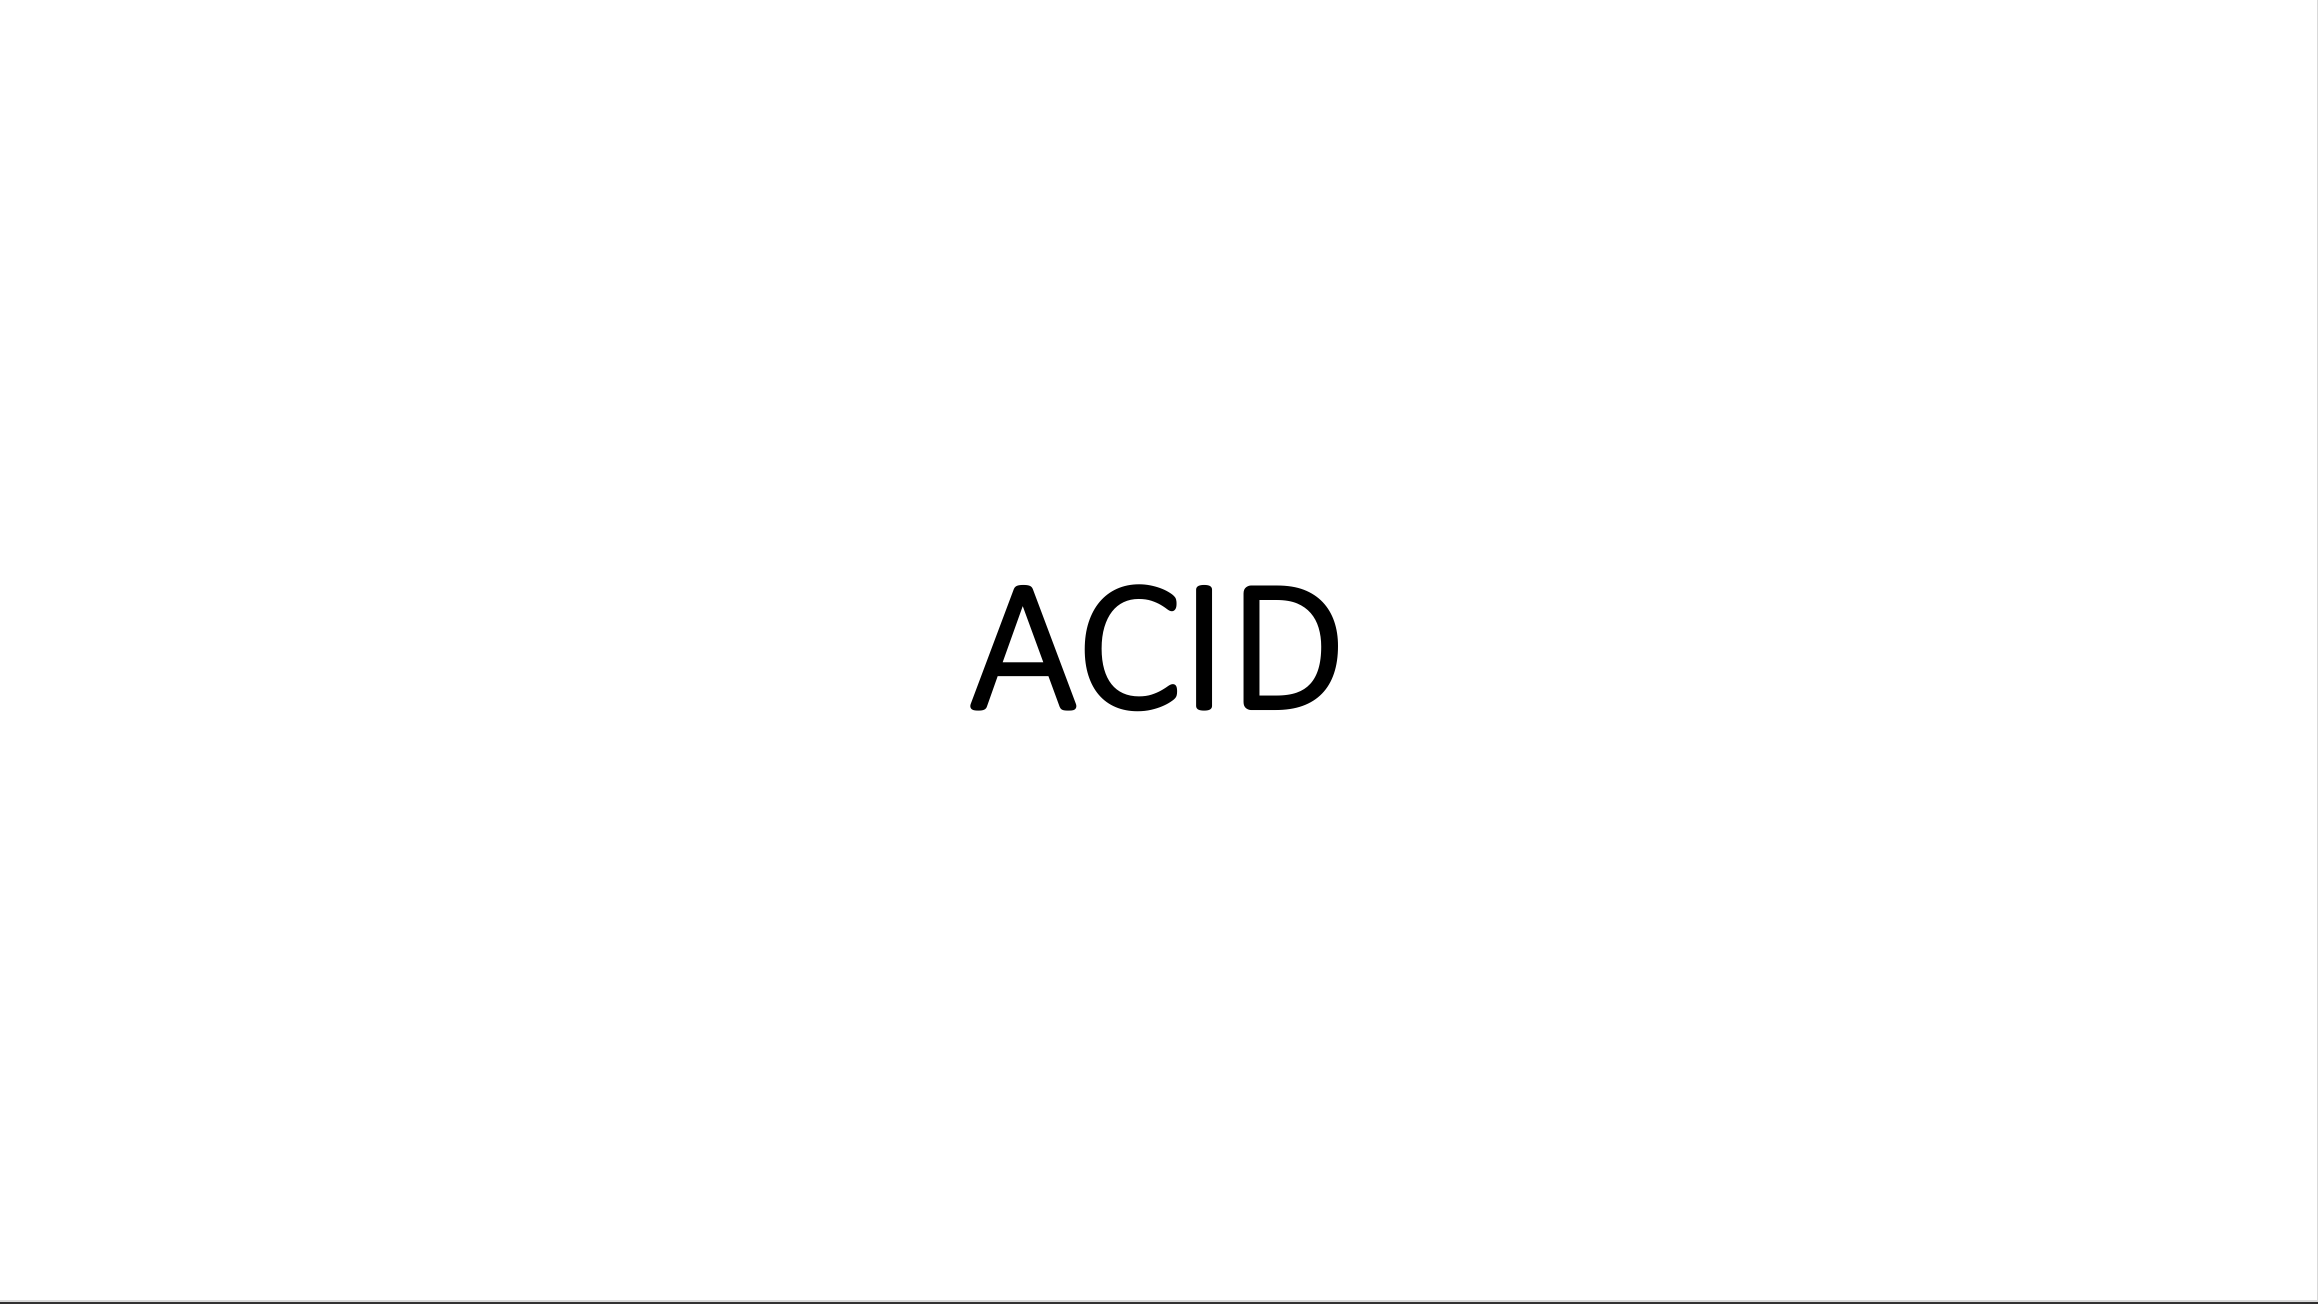
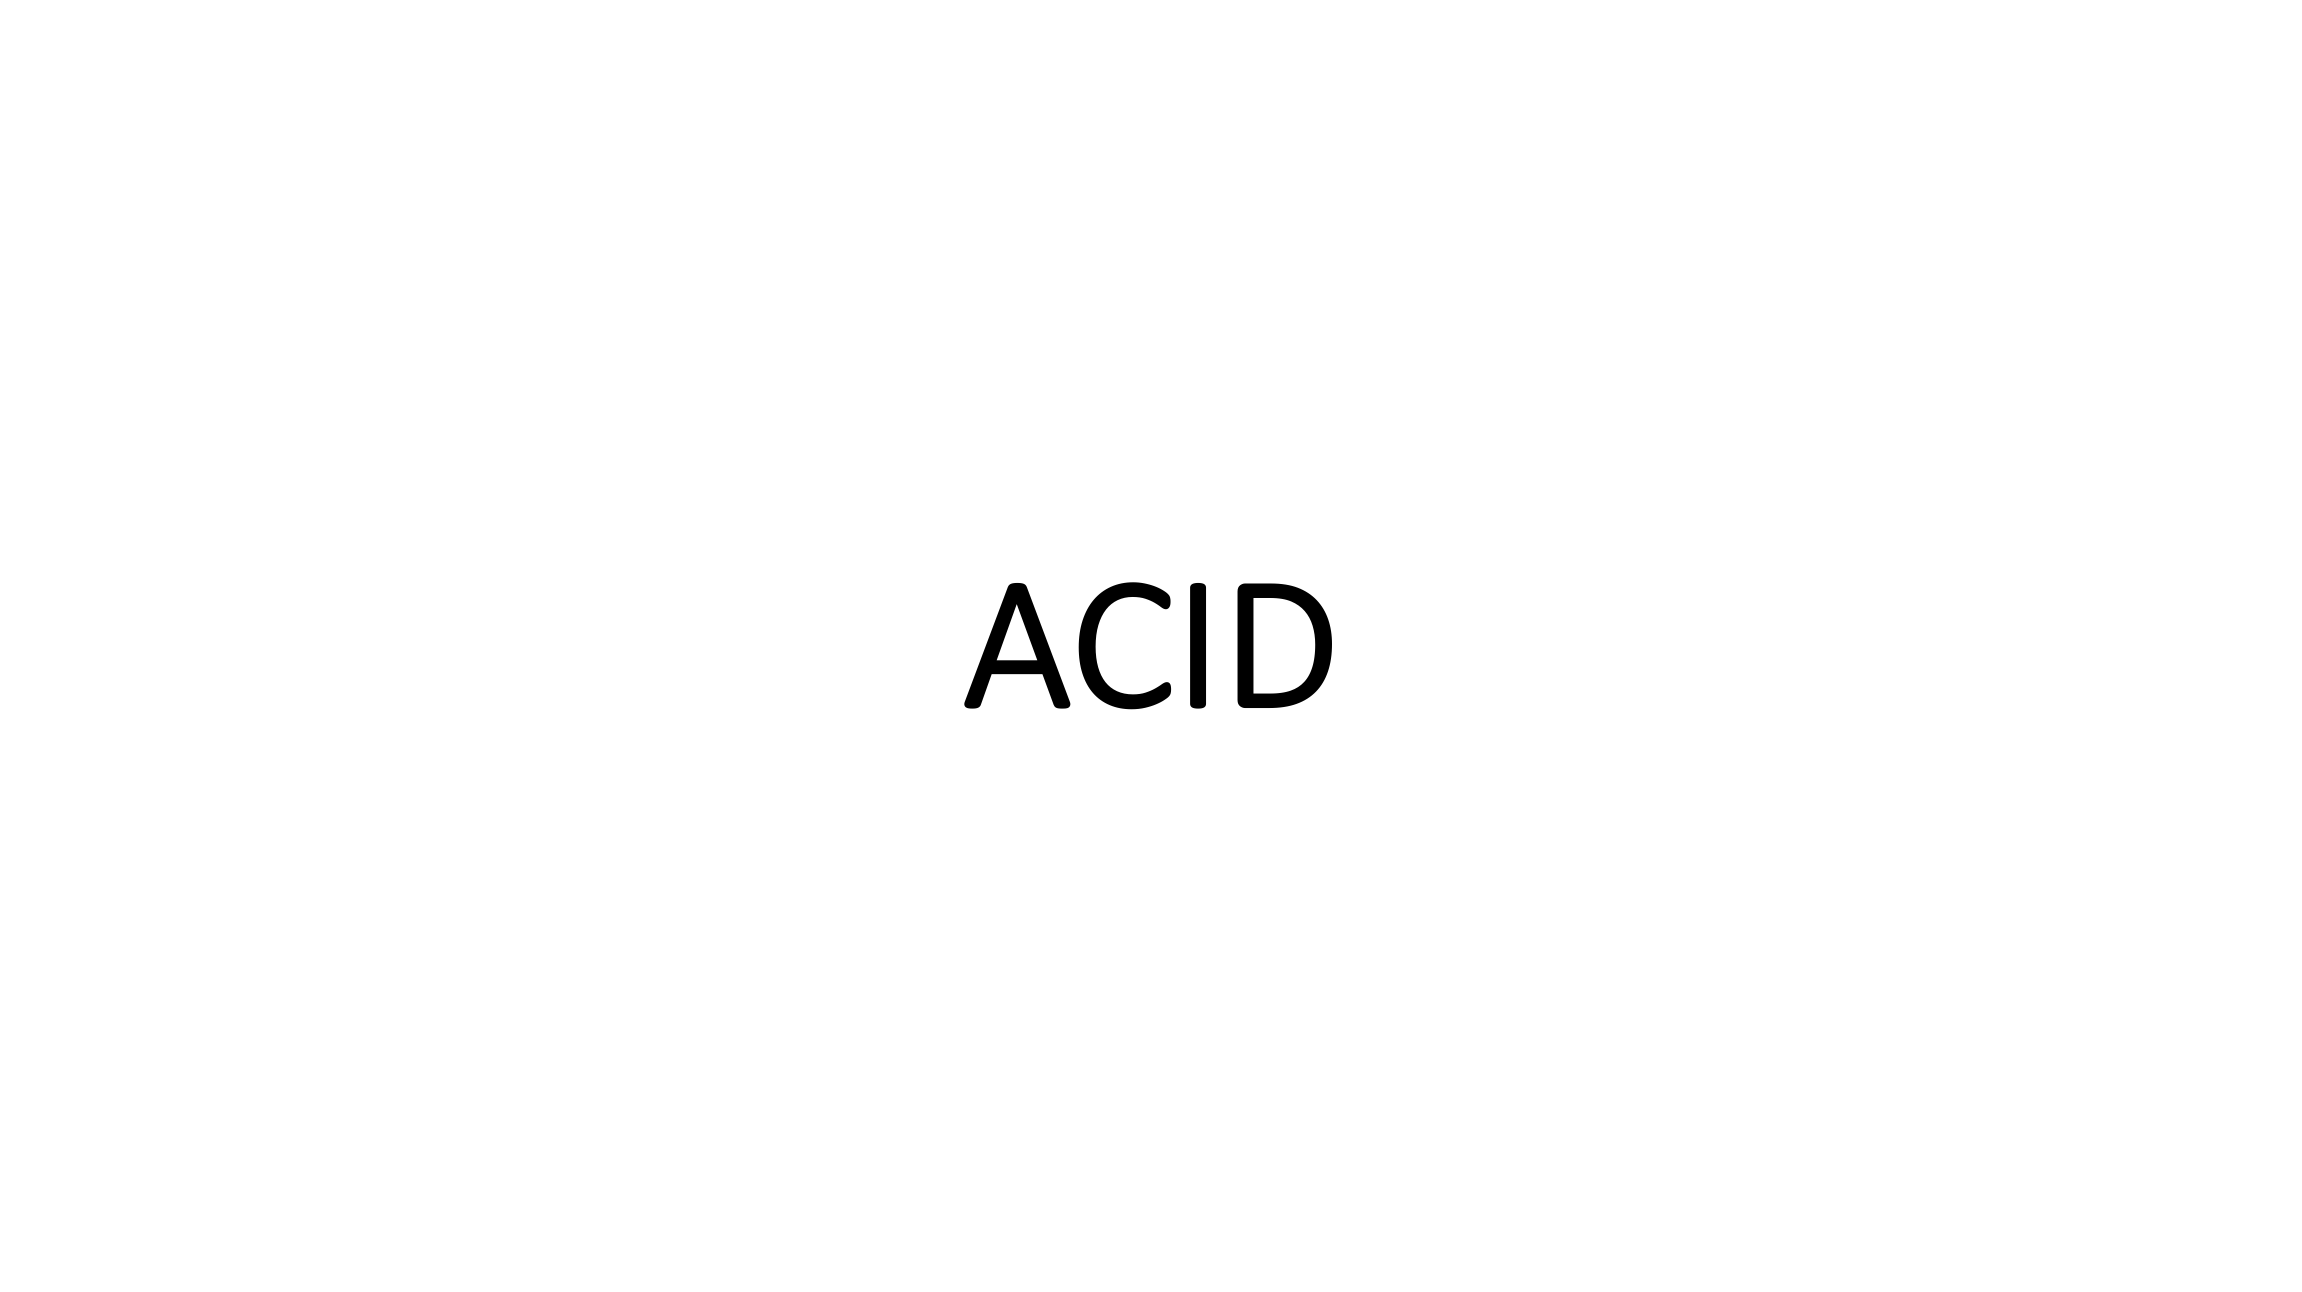
Updates

Changed region(s): [[0.0, 0.9907, 1.0, 1.0], [0.4626, 0.4334, 0.586, 0.5573], [0.4318, 0.4954, 0.4626, 0.5263]]

diff --git a/Database/database-acid/index.html b/Database/database-acid/index.html
@@ -64,39 +64,39 @@
     >
       <a
     class="gatsby-resp-image-link"
-    href="/static/90be88e6399aca938e7d0fe83d097603/f60cd/ACID.png"
+    href="/static/e412e68cb9bcc30e70140bcd63d56cc6/25e83/ACID.png"
     style="display: block"
     target="_blank"
     rel="noopener"
   >
     <span
     class="gatsby-resp-image-background-image"
[2 lines of base64/hex data omitted]
   ></span>
   <picture>
         <source
-          srcset="/static/90be88e6399aca938e7d0fe83d097603/8ac56/ACID.webp 240w,
-/static/90be88e6399aca938e7d0fe83d097603/d3be9/ACID.webp 480w,
-/static/90be88e6399aca938e7d0fe83d097603/e46b2/ACID.webp 960w,
-/static/90be88e6399aca938e7d0fe83d097603/f992d/ACID.webp 1440w,
-/static/90be88e6399aca938e7d0fe83d097603/882b9/ACID.webp 1920w,
-/static/90be88e6399aca938e7d0fe83d097603/0f958/ACID.webp 2318w"
+          srcset="/static/e412e68cb9bcc30e70140bcd63d56cc6/8ac56/ACID.webp 240w,
+/static/e412e68cb9bcc30e70140bcd63d56cc6/d3be9/ACID.webp 480w,
+/static/e412e68cb9bcc30e70140bcd63d56cc6/e46b2/ACID.webp 960w,
+/static/e412e68cb9bcc30e70140bcd63d56cc6/f992d/ACID.webp 1440w,
+/static/e412e68cb9bcc30e70140bcd63d56cc6/882b9/ACID.webp 1920w,
+/static/e412e68cb9bcc30e70140bcd63d56cc6/5fdfa/ACID.webp 2302w"
           sizes="(max-width: 960px) 100vw, 960px"
           type="image/webp"
         />
         <source
-          srcset="/static/90be88e6399aca938e7d0fe83d097603/8ff5a/ACID.png 240w,
-/static/90be88e6399aca938e7d0fe83d097603/e85cb/ACID.png 480w,
-/static/90be88e6399aca938e7d0fe83d097603/d9199/ACID.png 960w,
-/static/90be88e6399aca938e7d0fe83d097603/07a9c/ACID.png 1440w,
-/static/90be88e6399aca938e7d0fe83d097603/29114/ACID.png 1920w,
-/static/90be88e6399aca938e7d0fe83d097603/f60cd/ACID.png 2318w"
+          srcset="/static/e412e68cb9bcc30e70140bcd63d56cc6/8ff5a/ACID.png 240w,
+/static/e412e68cb9bcc30e70140bcd63d56cc6/e85cb/ACID.png 480w,
+/static/e412e68cb9bcc30e70140bcd63d56cc6/d9199/ACID.png 960w,
+/static/e412e68cb9bcc30e70140bcd63d56cc6/07a9c/ACID.png 1440w,
+/static/e412e68cb9bcc30e70140bcd63d56cc6/29114/ACID.png 1920w,
+/static/e412e68cb9bcc30e70140bcd63d56cc6/25e83/ACID.png 2302w"
           sizes="(max-width: 960px) 100vw, 960px"
           type="image/png"
         />
         <img
           class="gatsby-resp-image-image"
-          src="/static/90be88e6399aca938e7d0fe83d097603/d9199/ACID.png"
+          src="/static/e412e68cb9bcc30e70140bcd63d56cc6/d9199/ACID.png"
           alt="ACID.png"
           title="ACID.png"
           loading="lazy"
